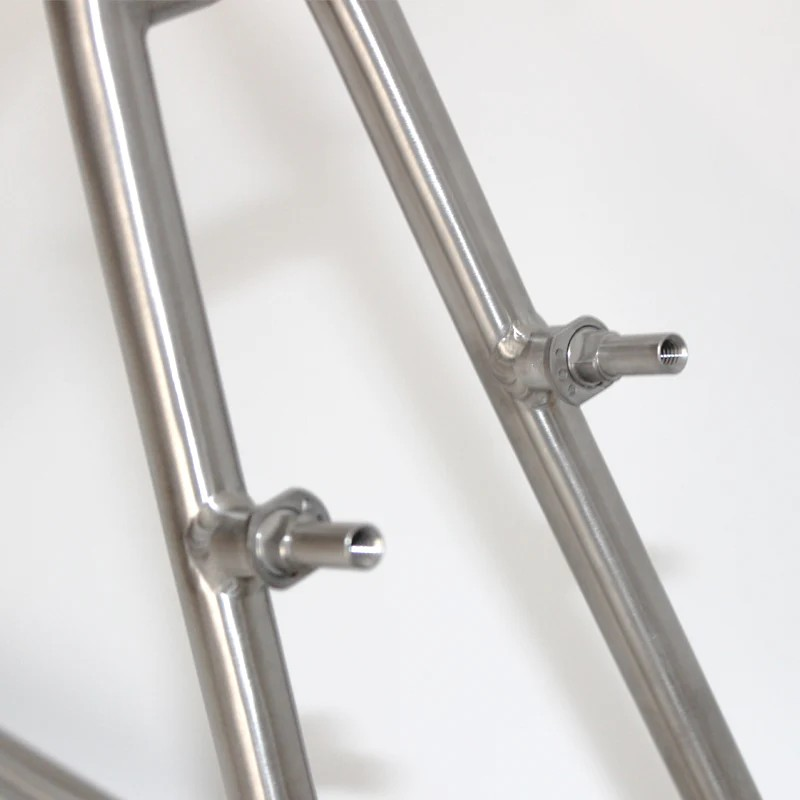
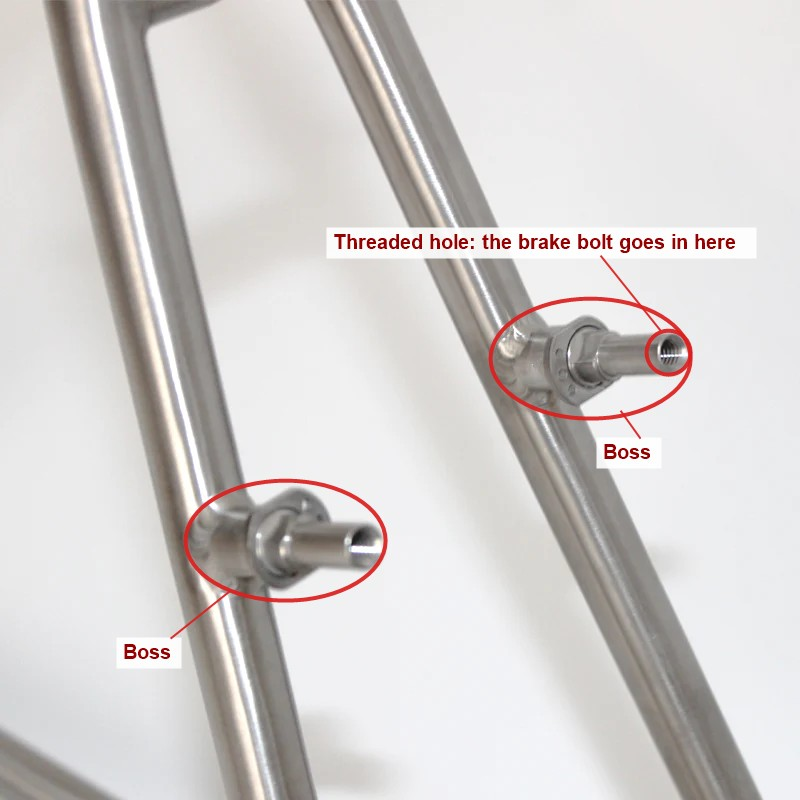
Brakes doc: explain findings with labelled photos of our bike, open questions instead of a plan

diff --git a/docs/brakes/README.md b/docs/brakes/README.md
@@ -1,88 +1,127 @@
-# Brakes: what we have and what we need
+# Brakes: what we know so far
 
-Background for [#32](https://github.com/Electrium-Mobility/Bakfiets-F26/issues/32). Written 10 Oct 2026.
+Background for [#32](https://github.com/Electrium-Mobility/Bakfiets-F26/issues/32) (claimed by Sonya and Olivia, due Wed 21 Oct). Written 10 Oct 2026. This page collects what we've found on the bike, with a labelled photo for each finding, plus some reference on how brakes mount. It doesn't pick a solution, since that's what #32 is for.
 
-## The problem
+## What the brakes have to do
 
-The bike has no working brakes yet. Ontario's e-bike rules need two independent braking systems that apply force to each wheel, able to stop the bike from 30 km/h within 9 m ([ontario.ca](https://www.ontario.ca/page/riding-e-bike)). Each brake lever also needs a motor cut-off.
+Ontario's e-bike rules ask for two independent braking systems that apply force to each wheel, able to stop the bike from 30 km/h within 9 m on level asphalt ([ontario.ca](https://www.ontario.ca/page/riding-e-bike)). The same rules cap e-bike motors at 500 W, which is why our motor is limited to 500 W in VESC.
 
-- **Front wheel:** it already has a hydraulic disc brake, but its hose is too short. The handlebars sit behind the box and the front wheel is in front of it, so the hose needs about 2 to 2.5 m.
-- **Back wheel:** this is the hub motor. It has nowhere to bolt a disc rotor, and the frame's seat stays have no bosses, so a rim brake has nothing to mount on either.
+Pulling a brake lever also has to cut the motor (O. Reg. 369/09 s. 3(2)). On our bike that's a switch wired to the controller's ADC2 input ([#18](https://github.com/Electrium-Mobility/Bakfiets-F26/issues/18), step 7).
 
-## Plan
+## What we've found
 
-Nothing gets bought until the specs below are posted on #32.
+### The front brake line has to get from the middle of the bike to the front
 
-**Front brake.** Find parts that connect to the brake we already have:
-1. Find the brand and model. It's usually printed on the lever or the caliper.
-2. Find the fluid type. Mineral oil and DOT fluid can't be mixed, and the wrong one ruins the seals. It's usually printed on the lever's reservoir cap or the caliper.
-3. Check the hose fittings at each end and the brake pad shape, so replacement parts match.
-4. If the markings aren't clear, take the front brake apart (lever, hose and caliper) and measure it.
-5. Measure the hose length needed with the steering in place ([#25](https://github.com/Electrium-Mobility/Bakfiets-F26/issues/25)), turned fully left and right.
-6. Post the specs and the parts that match them: a longer hose, fittings, a bleed kit and fluid, or a new lever and caliper set if the old one can't be reused.
+![The frame with the handlebars, head tube and two possible brake line routes](images/evidence-frame.jpg)
 
-**Back brake.** Pick one of these and post it with photos:
-1. Braze or weld bosses onto the seat stays, then fit a V-brake. The motor wheel's rim needs a flat metal braking edge for this, so check that first. This is a frame change, so it needs approval from a mechanical lead and the project lead.
-2. A rotor adapter that bolts onto the motor's side cover, plus a disc tab on the frame. Only if a part exists that fits this motor.
-3. A different rear motor that has a disc mount.
+The handlebars sit in the middle of the frame, and the head tube (where the fork goes) is at the far front, past the box. The fork isn't fitted yet. Whatever connects the front brake lever to the front wheel has to cover that distance and still work when the steering turns.
 
-Regen braking can't be the rear brake. It stops working if the controller or battery cuts out.
+Nobody has decided how it gets there. It could cross over the box (yellow) or follow the frame tubes under it (blue), and the steering design ([#25](https://github.com/Electrium-Mobility/Bakfiets-F26/issues/25)) will change it either way. The length depends on the route, so it hasn't been measured.
 
-## Parts of a bike
+The front wheel already has a hydraulic disc brake, and its hose is far too short for any of these routes. That's from looking at it in the bay. There's no close photo of it yet, so its brand, model and fluid type are still unknown.
+
+### The motor goes on the back and has no rotor mount
+
+![The motor's freewheel side](images/evidence-motor-side.jpg)
+
+The threads next to the axle are where a freewheel (the rear gears) screws on. Gears and the chain drive the rear wheel, so this is a rear motor. The side covers are held on by small screws.
+
+![The motor's cable side](images/evidence-motor-wheel.jpg)
+
+There's no visible ring of bolt holes for a disc rotor around the axle, so a disc brake can't bolt onto the back wheel as it is. A close-up of both sides would confirm this.
+
+The rim has a silver band along its edge. That usually means a machined surface for rim brakes, but nobody has checked it up close yet.
+
+### The seat stays have no bosses
+
+![The rear of the frame](images/evidence-rear.jpg)
+
+V-brakes and cantilever brakes mount on bosses (see below). Our seat stays look like smooth tube with only tape on them. There's also no bridge between them, which is where an old style caliper brake would bolt through. The photo is low resolution, so this is worth checking by hand.
+
+The dropout plates have several holes. Some could be rack eyelets, and the raised ones on the far plate might be a disc tab. Measuring the hole spacing would tell (51 mm apart for an IS disc mount, 74 mm for a post mount). If it is a disc tab, the back wheel's options change.
+
+### Where things stand
+
+| | Front wheel | Back wheel |
+| --- | --- | --- |
+| Brake now | Hydraulic disc | None |
+| Problem | Hose far too short | No rotor mount on the motor, no bosses on the frame |
+| Unknown | Brand, model, fluid type, hose fittings, pads, route | Whether the rim band is a brake track, what the dropout holes are |
+
+## Questions to work out
+
+- What is the front brake we have, and what would it take to make it reach the handlebars? Which other parts have to match it? Is reusing it simpler than replacing it?
+- Should the front line go over the box or along the frame, and how does the steering design affect that?
+- With no rotor mount and no bosses, how could the rear wheel be braked? What does each way cost, and does it change the frame?
+- What kind of cut-off switch fits the levers we end up with, and how does it connect to the controller?
+- How much load should the brakes be sized for, with a rider, cargo, the battery and the bike itself?
+
+Some approaches people use for a rear hub motor with no disc mount: bosses brazed or welded onto the seat stays, clamp-on boss plates (forum users are wary of them), an adapter that bolts a rotor to the motor's cover, a disc tab if the frame has one, or a different motor with a disc mount. Drum and coaster brakes need their own hub, so they can't work with a hub motor.
+
+Some limits that apply:
+- Steering and brakes share roughly $220 to $260 of the term's budget.
+- Changing the frame (welding, drilling, filing) needs approval from a mechanical lead and the project lead.
+- Parts go through the project lead once #32 has the specs they need to match.
+- Mineral oil and DOT brake fluid can't be mixed. The wrong one ruins the seals.
+- The brakes get a stopping test before anyone rides the bike.
+
+Regen braking (the motor slowing the wheel) stops working if the controller or battery cuts out, and it fades away at low speed, so it can't hold the bike still.
+
+## Reference
+
+### Words used here
+
+- **Caliper:** the part that squeezes. On a disc brake it grips the rotor.
+- **Rotor:** the metal disc bolted to a wheel's hub that a disc caliper grips.
+- **Hydraulic:** the lever pushes fluid through a hose to the caliper. Cable brakes use a steel cable instead.
+- **Dropouts:** the slotted plates at the back where the rear axle sits.
+- **Freewheel:** the rear gears, which screw onto the hub.
+- **Torque arm:** a bracket that stops a hub motor's axle from spinning in the dropouts ([#31](https://github.com/Electrium-Mobility/Bakfiets-F26/issues/31)).
+- **Regen:** using the motor as a generator to slow the wheel.
+
+### Parts of a bike
 
 ![Labelled bicycle diagram](images/bicycle-parts-labelled.svg)
 
-Seat stays run from under the seat down to the rear axle. Chain stays run forward from the rear axle to the pedals.
+A regular bike, not a cargo bike, but the back half is built the same way as ours. Seat stays run from under the seat down to the rear axle. Chain stays run forward from the rear axle to the pedals.
 
-## What a boss is
+### What a boss is
 
-A boss is a short metal post fixed to the frame, with a threaded hole in the end. Rim brakes need two, one on each seat stay just above the rim. The brake arms slide over them and a bolt holds each arm on.
+A boss is a short metal post fixed to the frame, with a threaded hole in the end. V-brakes and cantilevers need two, one on each seat stay just above the rim. The brake arms slide over them and a bolt holds each arm on.
 
-<img src="images/bare-bosses.jpg" alt="Two bare bosses on silver seat stays" width="400">
+<img src="images/bare-bosses.jpg" alt="Two bare bosses on silver seat stays, labelled" width="400">
 
-Two bare bosses on a frame's seat stays, before a brake is fitted.
+Two bare bosses on another bike, before a brake is fitted. Our seat stays, shown above, have nothing like this.
 
-<img src="images/v-brake-mounted.jpg" alt="A V-brake mounted on a mountain bike's rear wheel" width="400">
+<img src="images/v-brake-mounted.jpg" alt="A V-brake mounted on bosses, labelled" width="400">
 
-A V-brake mounted on bosses. The bosses are hidden under the bottom of each arm, where the bolt heads are.
+A V-brake mounted on bosses. Each arm pivots on a boss hidden under the bolt at its bottom end.
 
-## Where brake mounts sit
+### Where brake mounts sit
 
 ![Where brake mounts sit](images/brake-mounts.svg)
 
-Bosses (orange) hold rim brakes. A disc tab holds a disc caliper, which needs a rotor on the wheel. A bridge hole holds an old style caliper brake.
+Bosses (dark orange posts) hold rim brakes. A disc tab (light orange plate) holds a disc caliper, which also needs a rotor on the wheel. A bridge hole holds an old style caliper brake.
 
-## How a rim brake mounts on bosses
+### How a rim brake works on bosses
 
 ![How a V-brake mounts on bosses](images/v-brake-on-bosses.svg)
 
-Seen from behind the rear wheel. The arms (grey) slide onto the bosses (orange). The cable (blue) pulls the arm tops together, and the pads (black) squeeze the rim.
+Seen from behind the rear wheel. The arms (light grey) pivot on the bosses (orange). The cable (blue) pulls the arm tops together, and the pads (solid grey) squeeze the rim.
 
-## Our frame
-
-<img src="images/our-frame.jpg" alt="The green bakfiets frame in the bay" width="600">
-
-<img src="images/our-frame-rear.jpg" alt="Close-up of the rear of the frame" width="400">
-
-The seat stays look smooth, with only tape on them, so there are no bosses. A close-up from directly behind would confirm it.
-
-## How the hub motor works
+### How the hub motor works
 
 ![Inside a direct-drive hub motor](images/hub-motor-inside.svg)
 
-The stator (copper coils) is fixed to the axle, and the axle is bolted to the frame, so it never turns. The shell has magnets glued inside it and spins around the stator. The spokes connect the shell to the rim. The controller switches current through the three phase wires one coil set at a time, each coil pulls the nearest magnet along, and the hall sensors tell it which coil to switch next.
+The stator (copper coils) is fixed to the axle, and the axle is bolted to the frame, so it never turns. The shell has magnets glued inside it and spins around the stator, and the spokes connect the shell to the rim. The controller sends current through the three phase wires in a rotating pattern, so the coils' magnetic field turns and drags the magnets along with it. Hall sensors on the stator tell the controller where the magnets are.
 
-Because the stator pushes back on the axle as hard as it pushes the wheel, the axle needs torque arms ([#31](https://github.com/Electrium-Mobility/Bakfiets-F26/issues/31)).
+The stator pushes back on the axle as hard as it pushes the wheel, which is why the axle needs torque arms (#31).
 
-**Why brake pads can't press on the motor:** there's no mount on the frame beside the shell to hold a brake, the side covers are thin plates held on by small screws, the heat from braking would go straight into the motor's magnets, and the spoke flanges leave no flat surface for a pad.
-
-<img src="../photos/bay-2026-10/hub-motor-axle-label.jpg" alt="The hub motor's side cover" width="400">
-
-Our motor's side cover. Stamp: 48FF-DGR D2502 6158. No brand or model was found online.
+Some facts to weigh if anyone thinks about braking on the motor shell itself: nothing on the frame sits beside the shell to hold a brake, the covers are thin plates on small screws, the spoke flanges stick out around the edge, and braking makes heat right next to the motor's magnets, which weaken when they get too hot.
 
 ## Image credits
 
 - Bike diagram: [Al2, Wikimedia Commons](https://commons.wikimedia.org/wiki/File:Bicycle_diagram-en.svg), CC BY 3.0. White background and viewBox added.
-- V-brake photo: [Keithonearth, from a photo by ArnoldReinhold, Wikimedia Commons](https://commons.wikimedia.org/wiki/File:Linear_pull_bicycle_brake_highlighted.jpg), CC BY-SA 3.0. Resized.
-- Bare bosses photo: [Bicycles Stack Exchange](https://bicycles.stackexchange.com/questions/87966/aside-from-brakes-what-items-can-be-mounted-to-v-brake-mounts), CC BY-SA. Resized.
-- Frame and motor photos and the three diagrams: Bakfiets F26.
+- V-brake photo: [Keithonearth, from a photo by ArnoldReinhold, Wikimedia Commons](https://commons.wikimedia.org/wiki/File:Linear_pull_bicycle_brake_highlighted.jpg), CC BY-SA 3.0. Resized and labelled.
+- Bare bosses photo: [Bicycles Stack Exchange](https://bicycles.stackexchange.com/questions/87966/aside-from-brakes-what-items-can-be-mounted-to-v-brake-mounts), CC BY-SA. Resized and labelled.
+- Frame and motor photos, labels and the three diagrams: Bakfiets F26.
